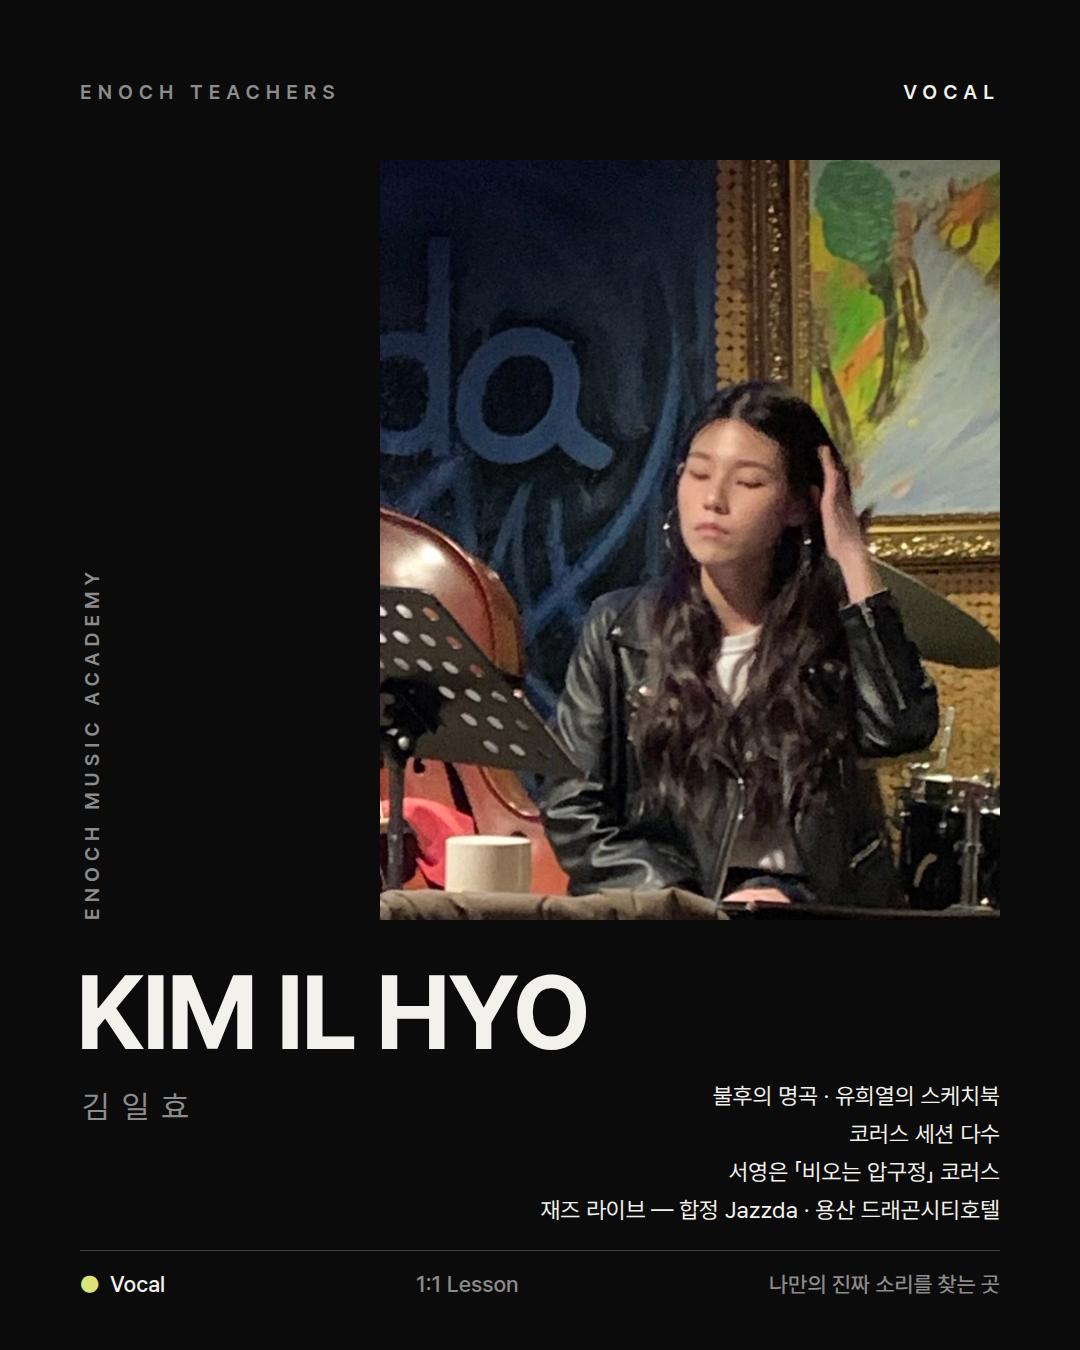
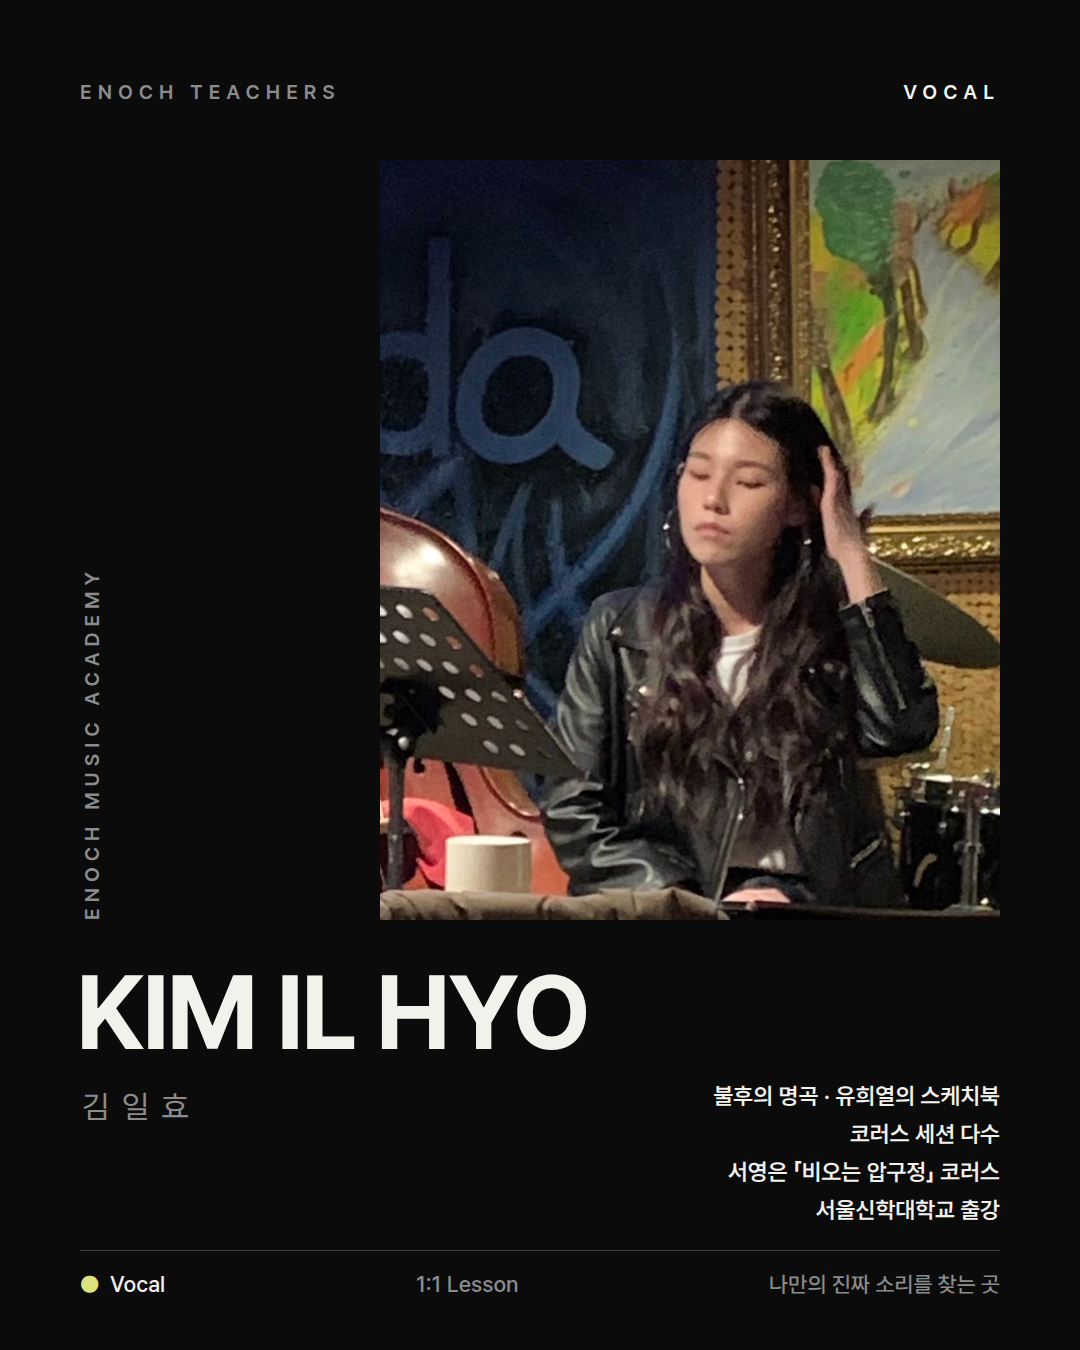
김일효: 방송 코러스·서영은 세션·서울신학대 출강 강조
Claude-Session: https://claude.ai/code/session_01HGbZvgMeYrbU7mY8bwfjyb

Changed region(s): [[0.4889, 0.8089, 0.9472, 0.9022]]

diff --git a/output/강사소개_김일효/feed_black.html b/output/강사소개_김일효/feed_black.html
@@ -61,23 +61,25 @@
 .bl .k{color:#8C8C8C}
 .bl .nm small{color:#8C8C8C}
 .lime{color:#DDE37C}
+#r2 .sec li.hi{font-size:31px;font-weight:600;color:#F3F1EC}
+#r2 .sec li.lo{font-size:24px;color:#9A958C}
 </style></head><body><section class="s bl" id="r1">
   <div class="top"><span class="lab g">ENOCH TEACHERS</span><span class="lab">VOCAL</span></div>
   <div class="side"><span></span><span class="lab g" style="writing-mode:vertical-rl;transform:rotate(180deg)">ENOCH MUSIC ACADEMY</span></div>
   <div class="ph"></div>
   <div class="en">KIM IL HYO</div>
   <div class="ko g">김일효</div>
-  <div class="cv">불후의 명곡 · 유희열의 스케치북<br>코러스 세션 다수<br>서영은 「비오는 압구정」 코러스<br>재즈 라이브 — 합정 Jazzda · 용산 드래곤시티호텔</div>
+  <div class="cv" style="font-weight:600">불후의 명곡 · 유희열의 스케치북<br>코러스 세션 다수<br>서영은 「비오는 압구정」 코러스<br>서울신학대학교 출강</div>
   <div class="bt"><span><span class="lime">●</span>&nbsp; Vocal</span><span class="g">1:1 Lesson</span><span class="g">나만의 진짜 소리를 찾는 곳</span></div>
 </section><section class="s bl" id="r2">
   <div class="hd"><span>ENOCH MUSIC ACADEMY</span><span>CAREER</span></div>
   <div class="nm">KIM IL HYO<small>김일효</small></div>
   <div class="tbl">
-    <div class="sec"><span class="k">Broadcast</span><ul><li>불후의 명곡 · 유희열의 스케치북<br>코러스 세션 참여 다수</li></ul></div>
-    <div class="sec"><span class="k">Session</span><ul><li>서영은 「비오는 압구정」 코러스 세션 참여</li></ul></div>
-    <div class="sec"><span class="k">Jazz Live</span><ul><li>합정 Jazzda</li><li>이태원 번 라운지 시가바</li><li>용산 드래곤시티호텔</li></ul></div>
-    <div class="sec"><span class="k">Concert</span><ul><li>문화예술공동체 더뮤엘<br>그림책 콘서트 객원 보컬 참여 다수</li></ul></div>
-    <div class="sec"><span class="k">Lecture</span><ul><li>부천 여월중학교</li><li>서울 배화여자중학교</li><li>서울신학대학교 <i>출강</i></li></ul></div>
+    <div class="sec"><span class="k">Broadcast</span><ul><li class="hi">불후의 명곡 · 유희열의 스케치북<br>코러스 세션 참여 다수</li></ul></div>
+    <div class="sec"><span class="k">Session</span><ul><li class="hi">서영은 「비오는 압구정」 코러스 세션 참여</li></ul></div>
+    <div class="sec"><span class="k">Lecture</span><ul><li class="hi">서울신학대학교 출강</li><li class="lo">부천 여월중학교 · 서울 배화여자중학교 출강</li></ul></div>
+    <div class="sec"><span class="k">Jazz Live</span><ul><li class="lo">합정 Jazzda · 이태원 번 라운지 시가바<br>용산 드래곤시티호텔</li></ul></div>
+    <div class="sec"><span class="k">Concert</span><ul><li class="lo">문화예술공동체 더뮤엘<br>그림책 콘서트 객원 보컬 참여 다수</li></ul></div>
   </div>
   <div class="ft"><span>강사 소개 — 김일효</span><span>02 / 03</span></div>
 </section><section class="s dark" id="r4">

diff --git a/output/강사소개_김일효/story.html b/output/강사소개_김일효/story.html
@@ -18,7 +18,9 @@
 #R .ko{position:absolute;left:82px;top:1490px;font-size:34px;font-weight:400;letter-spacing:12px}
 #R .cv{position:absolute;right:80px;top:1262px;text-align:right;font-size:22px;line-height:1.72;font-weight:400}
 #R .cv .lab{display:block;margin-bottom:10px;font-size:18px}
-#R .cv .it{display:block;margin-bottom:14px;font-size:21px;line-height:1.55}
+#R .cv .it{display:block;margin-bottom:14px;line-height:1.5}
+#R .cv .hi{font-size:26px;font-weight:600;color:#F3F1EC}
+#R .cv .lo{font-size:19px;color:#8C8C8C}
 #R .bt{position:absolute;left:80px;right:80px;top:1720px;padding-top:22px;display:flex;justify-content:space-between;font-size:24px;font-weight:500;border-top:1px solid rgba(255,255,255,.22)}
 /* 상세 약력 */
 .dt .top{position:absolute;left:80px;right:80px;top:230px;display:flex;justify-content:space-between;padding-bottom:22px;border-bottom:1px solid rgba(255,255,255,.22)}
@@ -41,6 +43,6 @@
   <div class="ph"></div>
   <div class="en">KIM<br>IL HYO</div>
   <div class="ko g">김일효</div>
-  <div class="cv"><span class="lab g">CAREER</span><span class="it">불후의 명곡 · 유희열의 스케치북<br>코러스 세션 참여 다수</span><span class="it">서영은 「비오는 압구정」 코러스 세션</span><span class="it">재즈 라이브 — 합정 Jazzda<br>이태원 번 라운지 시가바 · 용산 드래곤시티호텔</span><span class="it">문화예술공동체 더뮤엘<br>그림책 콘서트 객원 보컬 참여 다수</span><span class="it">출강 — 부천 여월중학교 · 서울 배화여자중학교<br>서울신학대학교</span></div>
+  <div class="cv"><span class="lab g">CAREER</span><span class="it hi">불후의 명곡 · 유희열의 스케치북<br>코러스 세션 참여 다수</span><span class="it hi">서영은 「비오는 압구정」 코러스 세션</span><span class="it hi">서울신학대학교 출강</span><span class="it lo">부천 여월중학교 · 서울 배화여자중학교 출강</span><span class="it lo">재즈 라이브 — 합정 Jazzda<br>이태원 번 라운지 시가바 · 용산 드래곤시티호텔</span><span class="it lo">문화예술공동체 더뮤엘<br>그림책 콘서트 객원 보컬 참여 다수</span></div>
   <div class="bt"><span><span class="lime">●</span>&nbsp; Vocal</span><span class="g">1:1 Lesson</span><span class="g">나만의 진짜 소리를 찾는 곳</span></div>
 </section></body></html>
